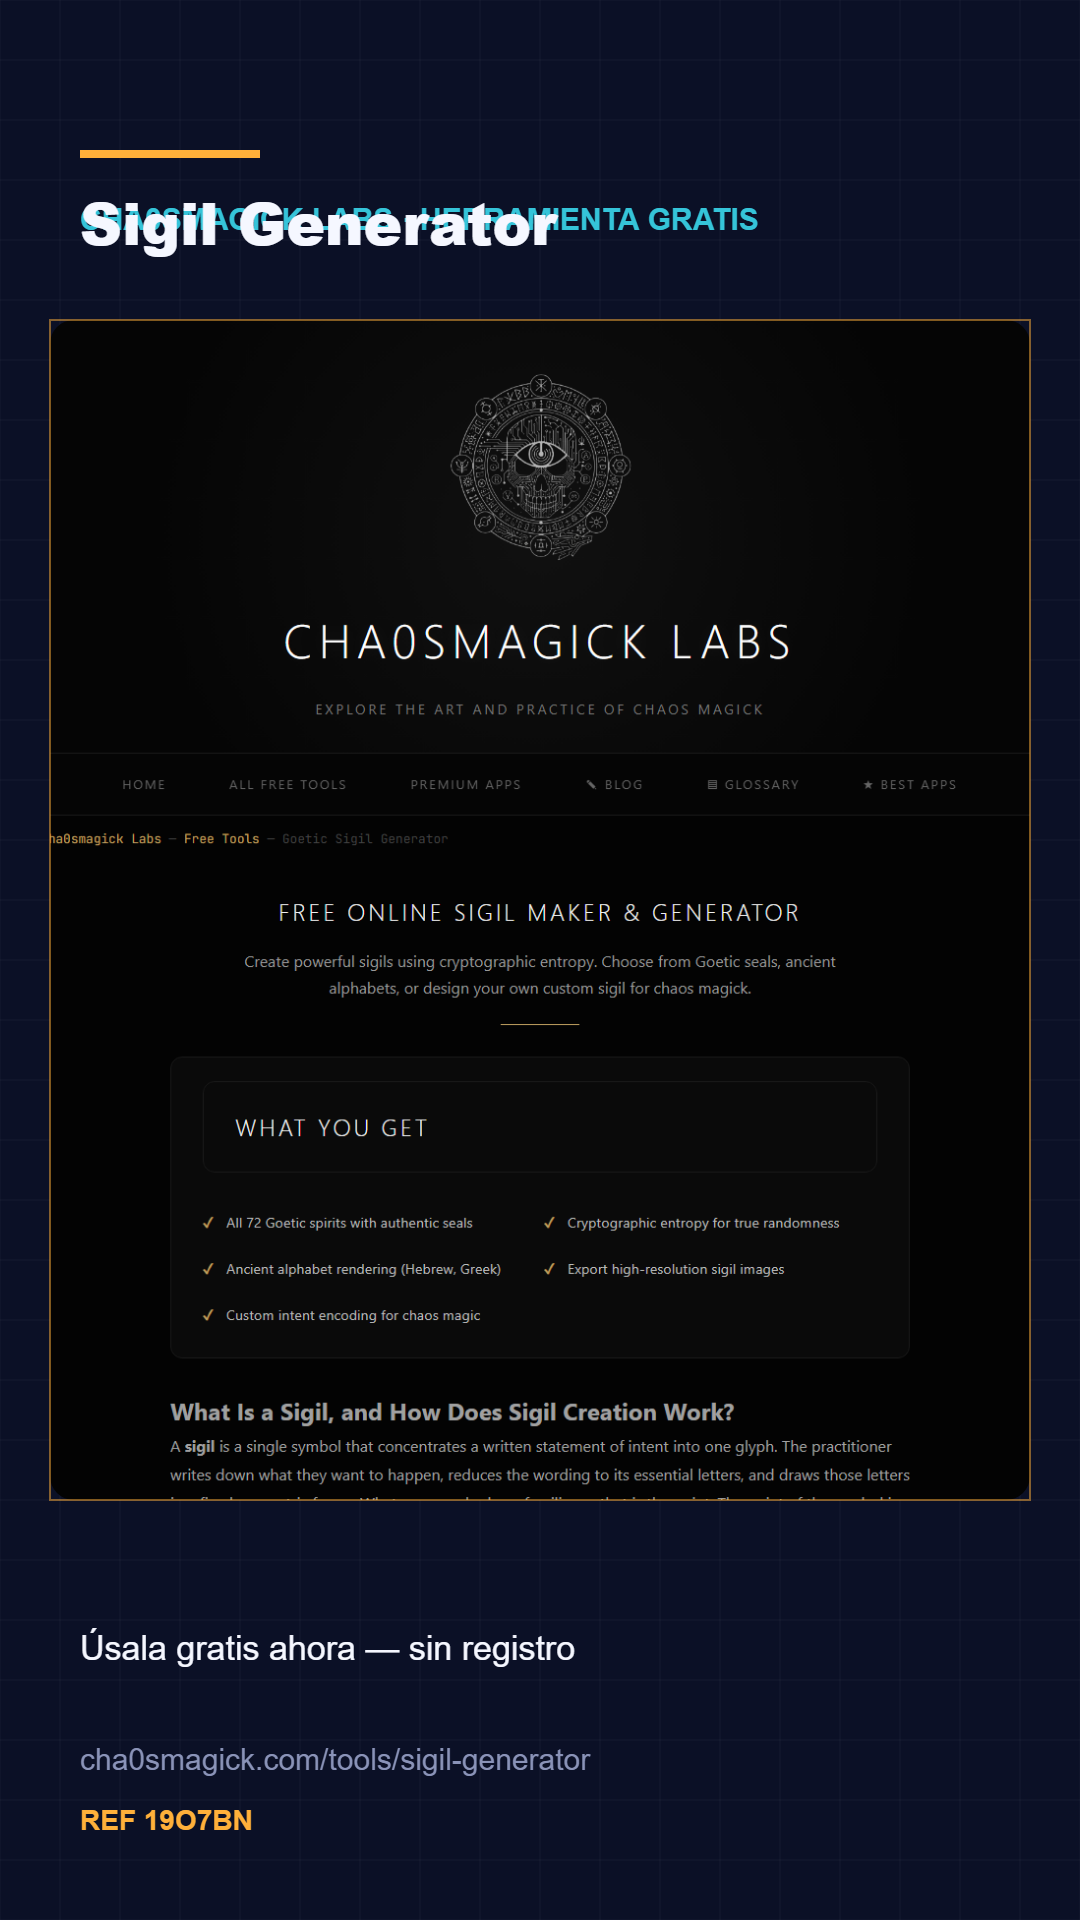
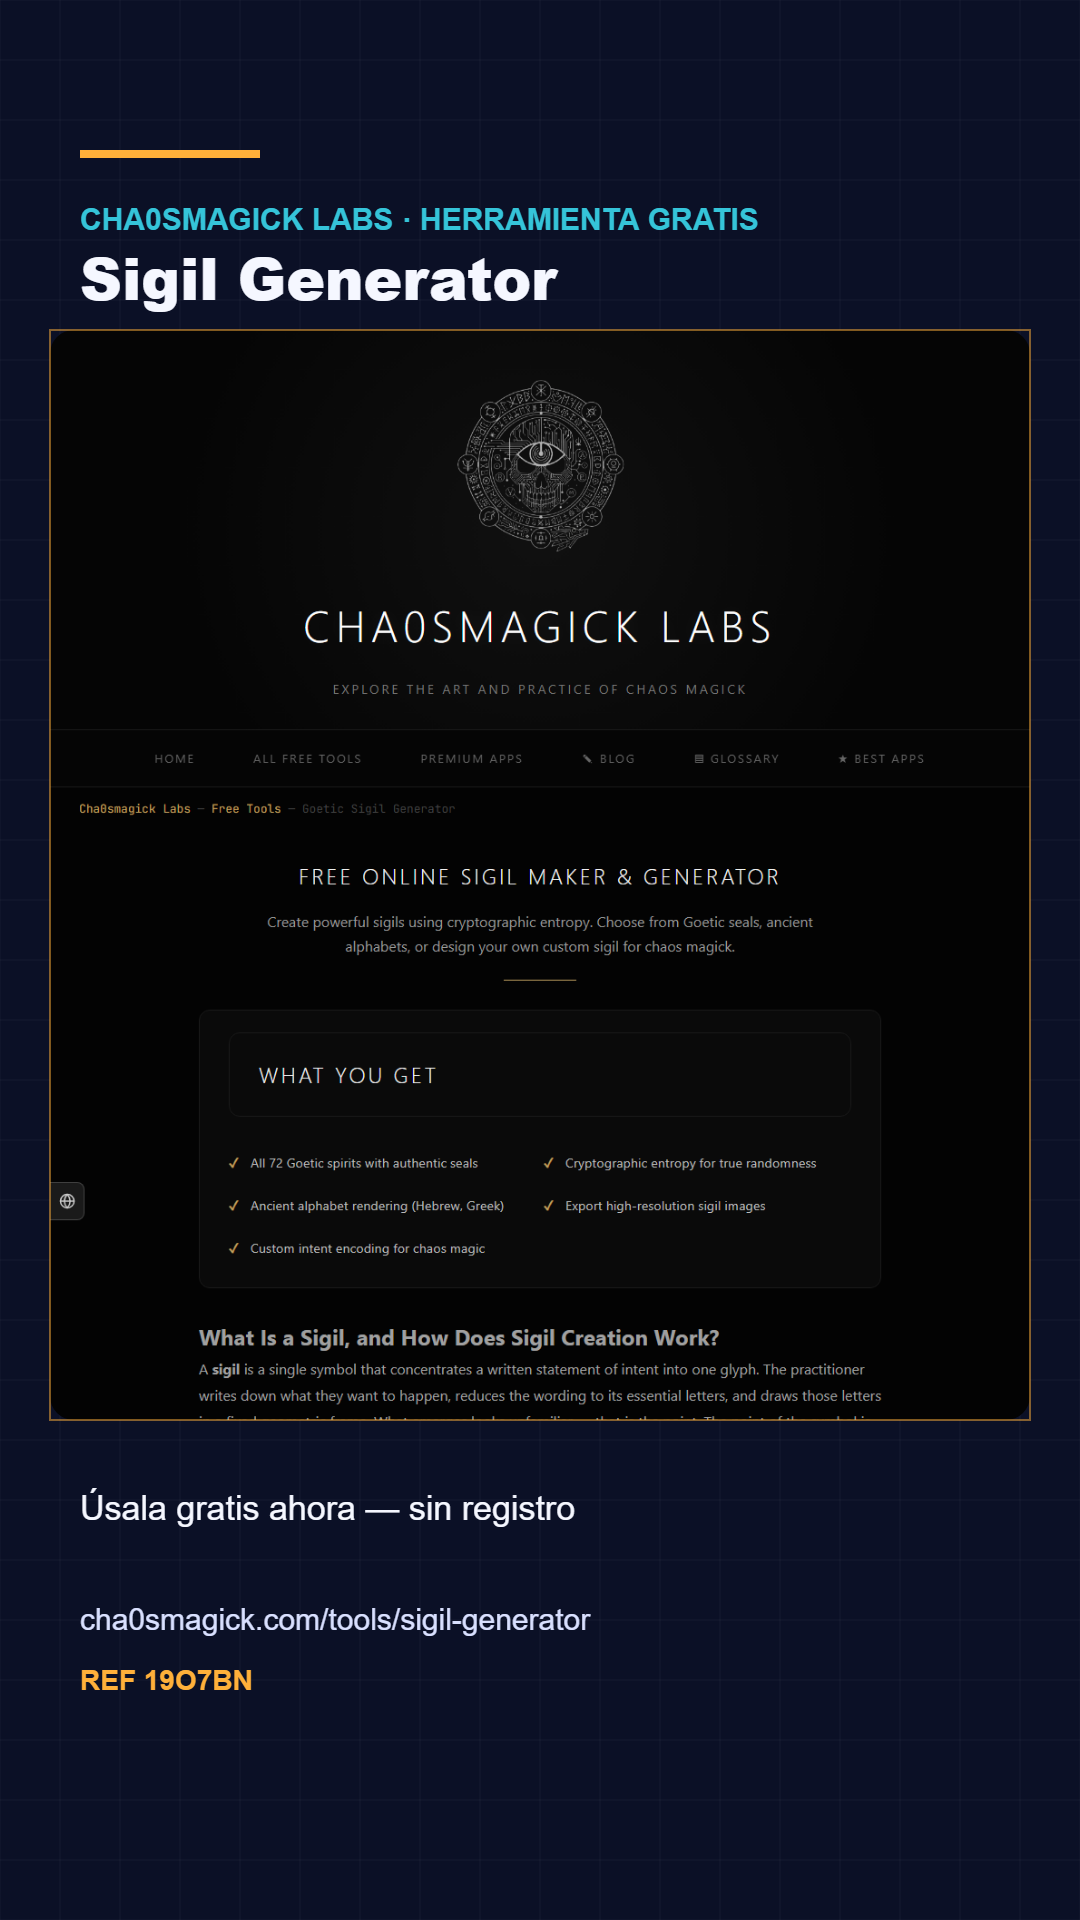
pinterest: board env alineado, 2 pins/dia (daily+themed extra), pin-now util, pin card fix overlap/crop/contraste

diff --git a/scripts/social-publish.js b/scripts/social-publish.js
@@ -428,6 +428,19 @@ async function postCalendar(state, now, opts = {}) {
     let r = await publishPinterestPin(pinEntry.item, process.env.PINTEREST_BOARD_ID);
     if (r.skipped) r = await publishViaBridge(pinEntry.item.title, ['pinterest'], [pinEntry.item.link]);
     results.pin = r;
+    // Extra pin (2/day total, different boards, no duplicates): when the
+    // daily tool pin took the primary slot, the day's themed calendar pin
+    // would otherwise never run — publish it to the extra board instead.
+    if (daily && process.env.PINTEREST_BOARD_ID_EXTRA) {
+      try {
+        const themed = pickCalendarItem(PIN_CALENDAR, perf, now, 'pin');
+        if (themed && themed.item) {
+          results.pinExtra = await publishPinterestPin(themed.item, process.env.PINTEREST_BOARD_ID_EXTRA);
+        }
+      } catch (err) {
+        errors.push(`pinExtra: ${err.message}`);
+      }
+    }
   } catch (err) {
     errors.push(`pin: ${err.message}`);
   }
